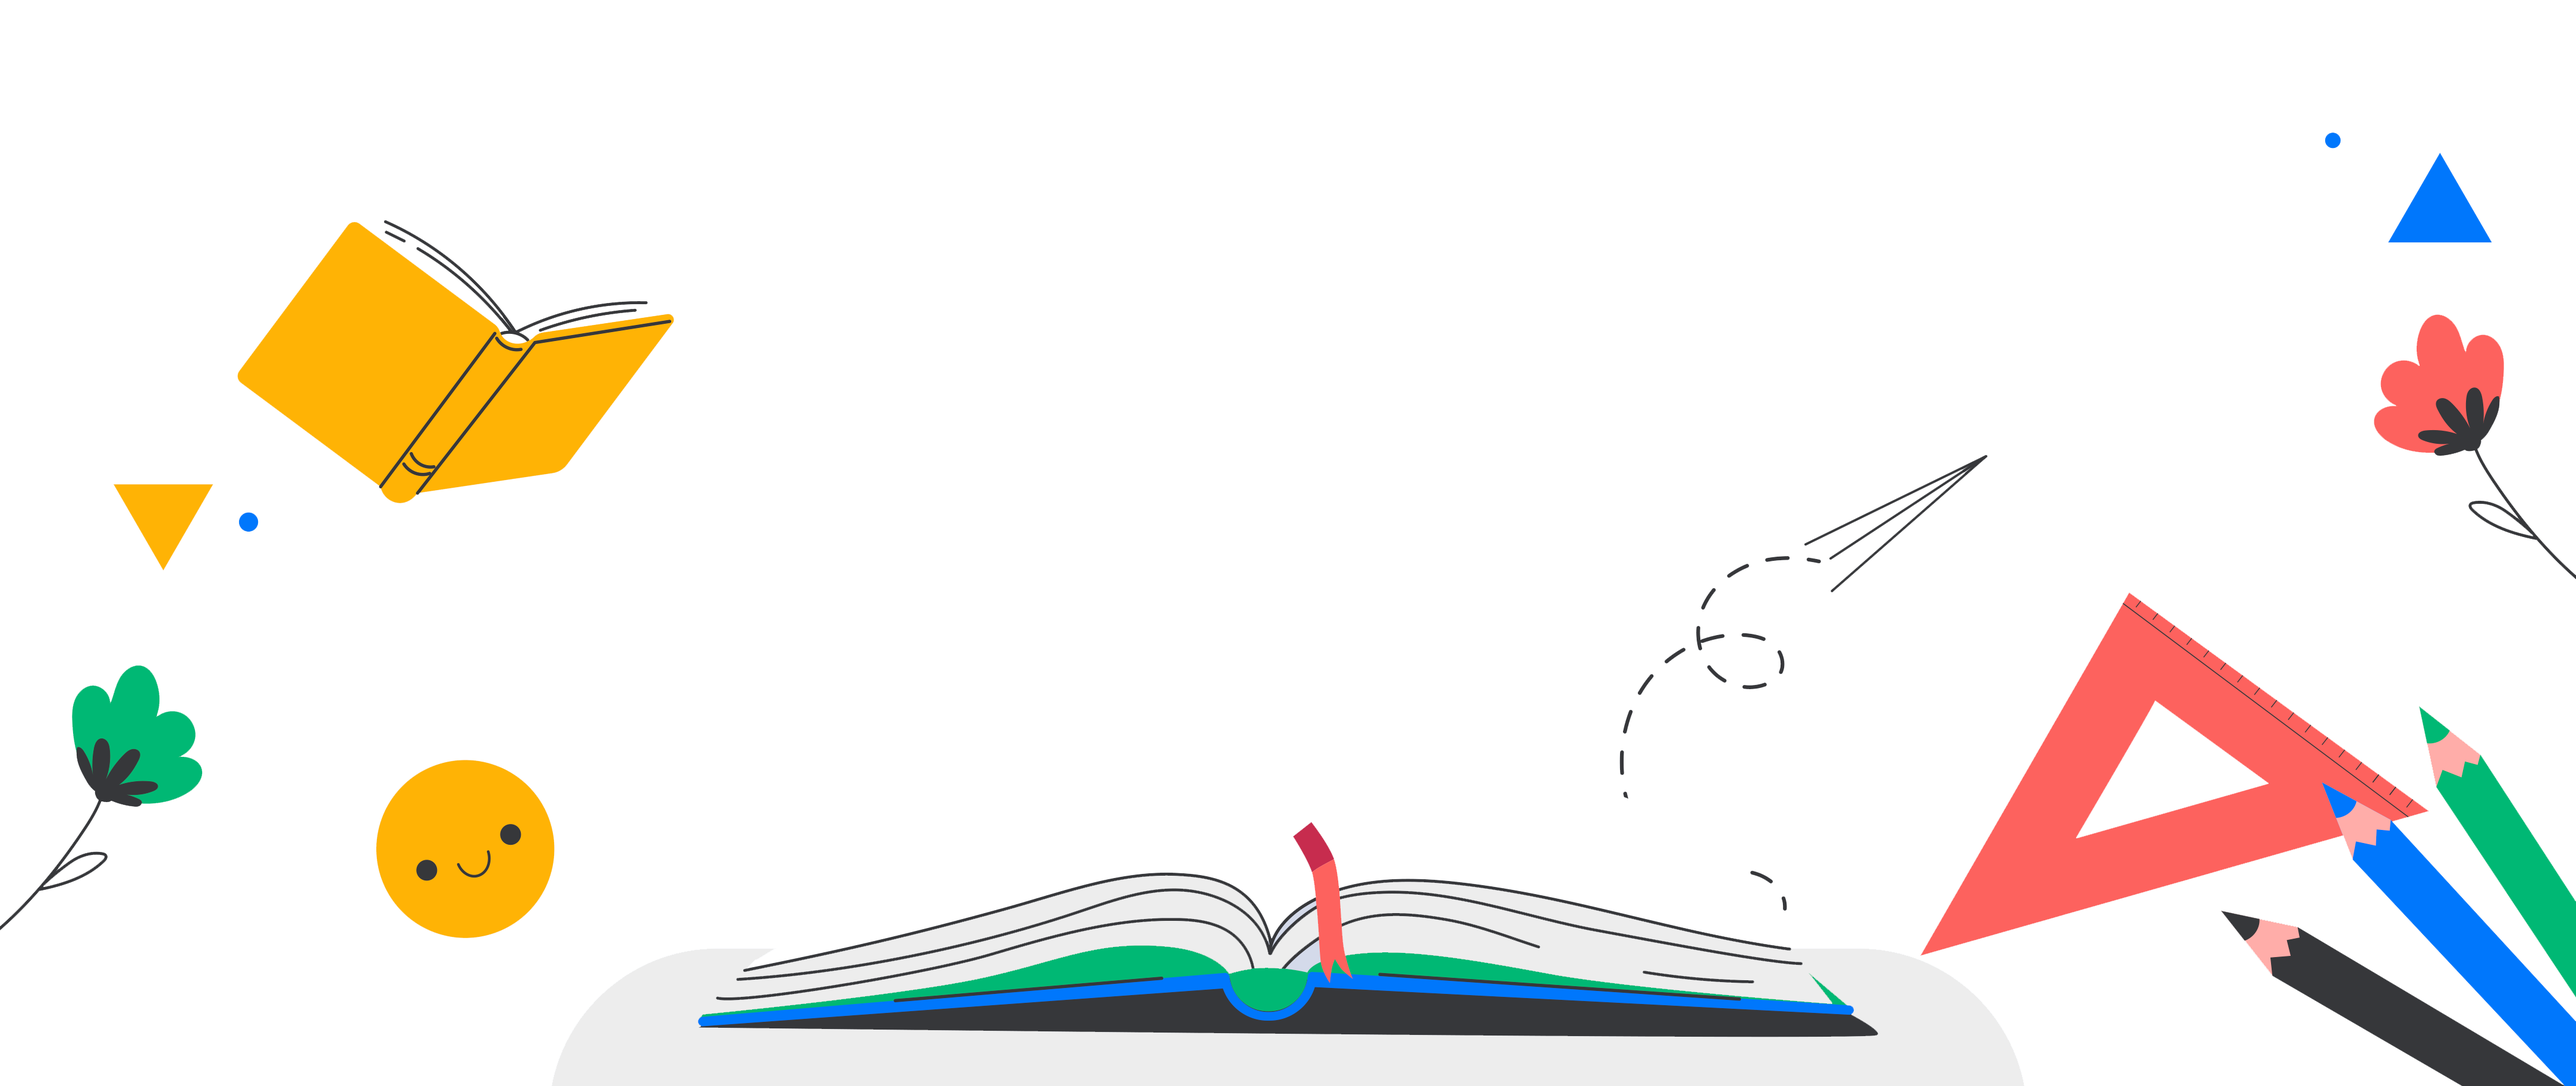
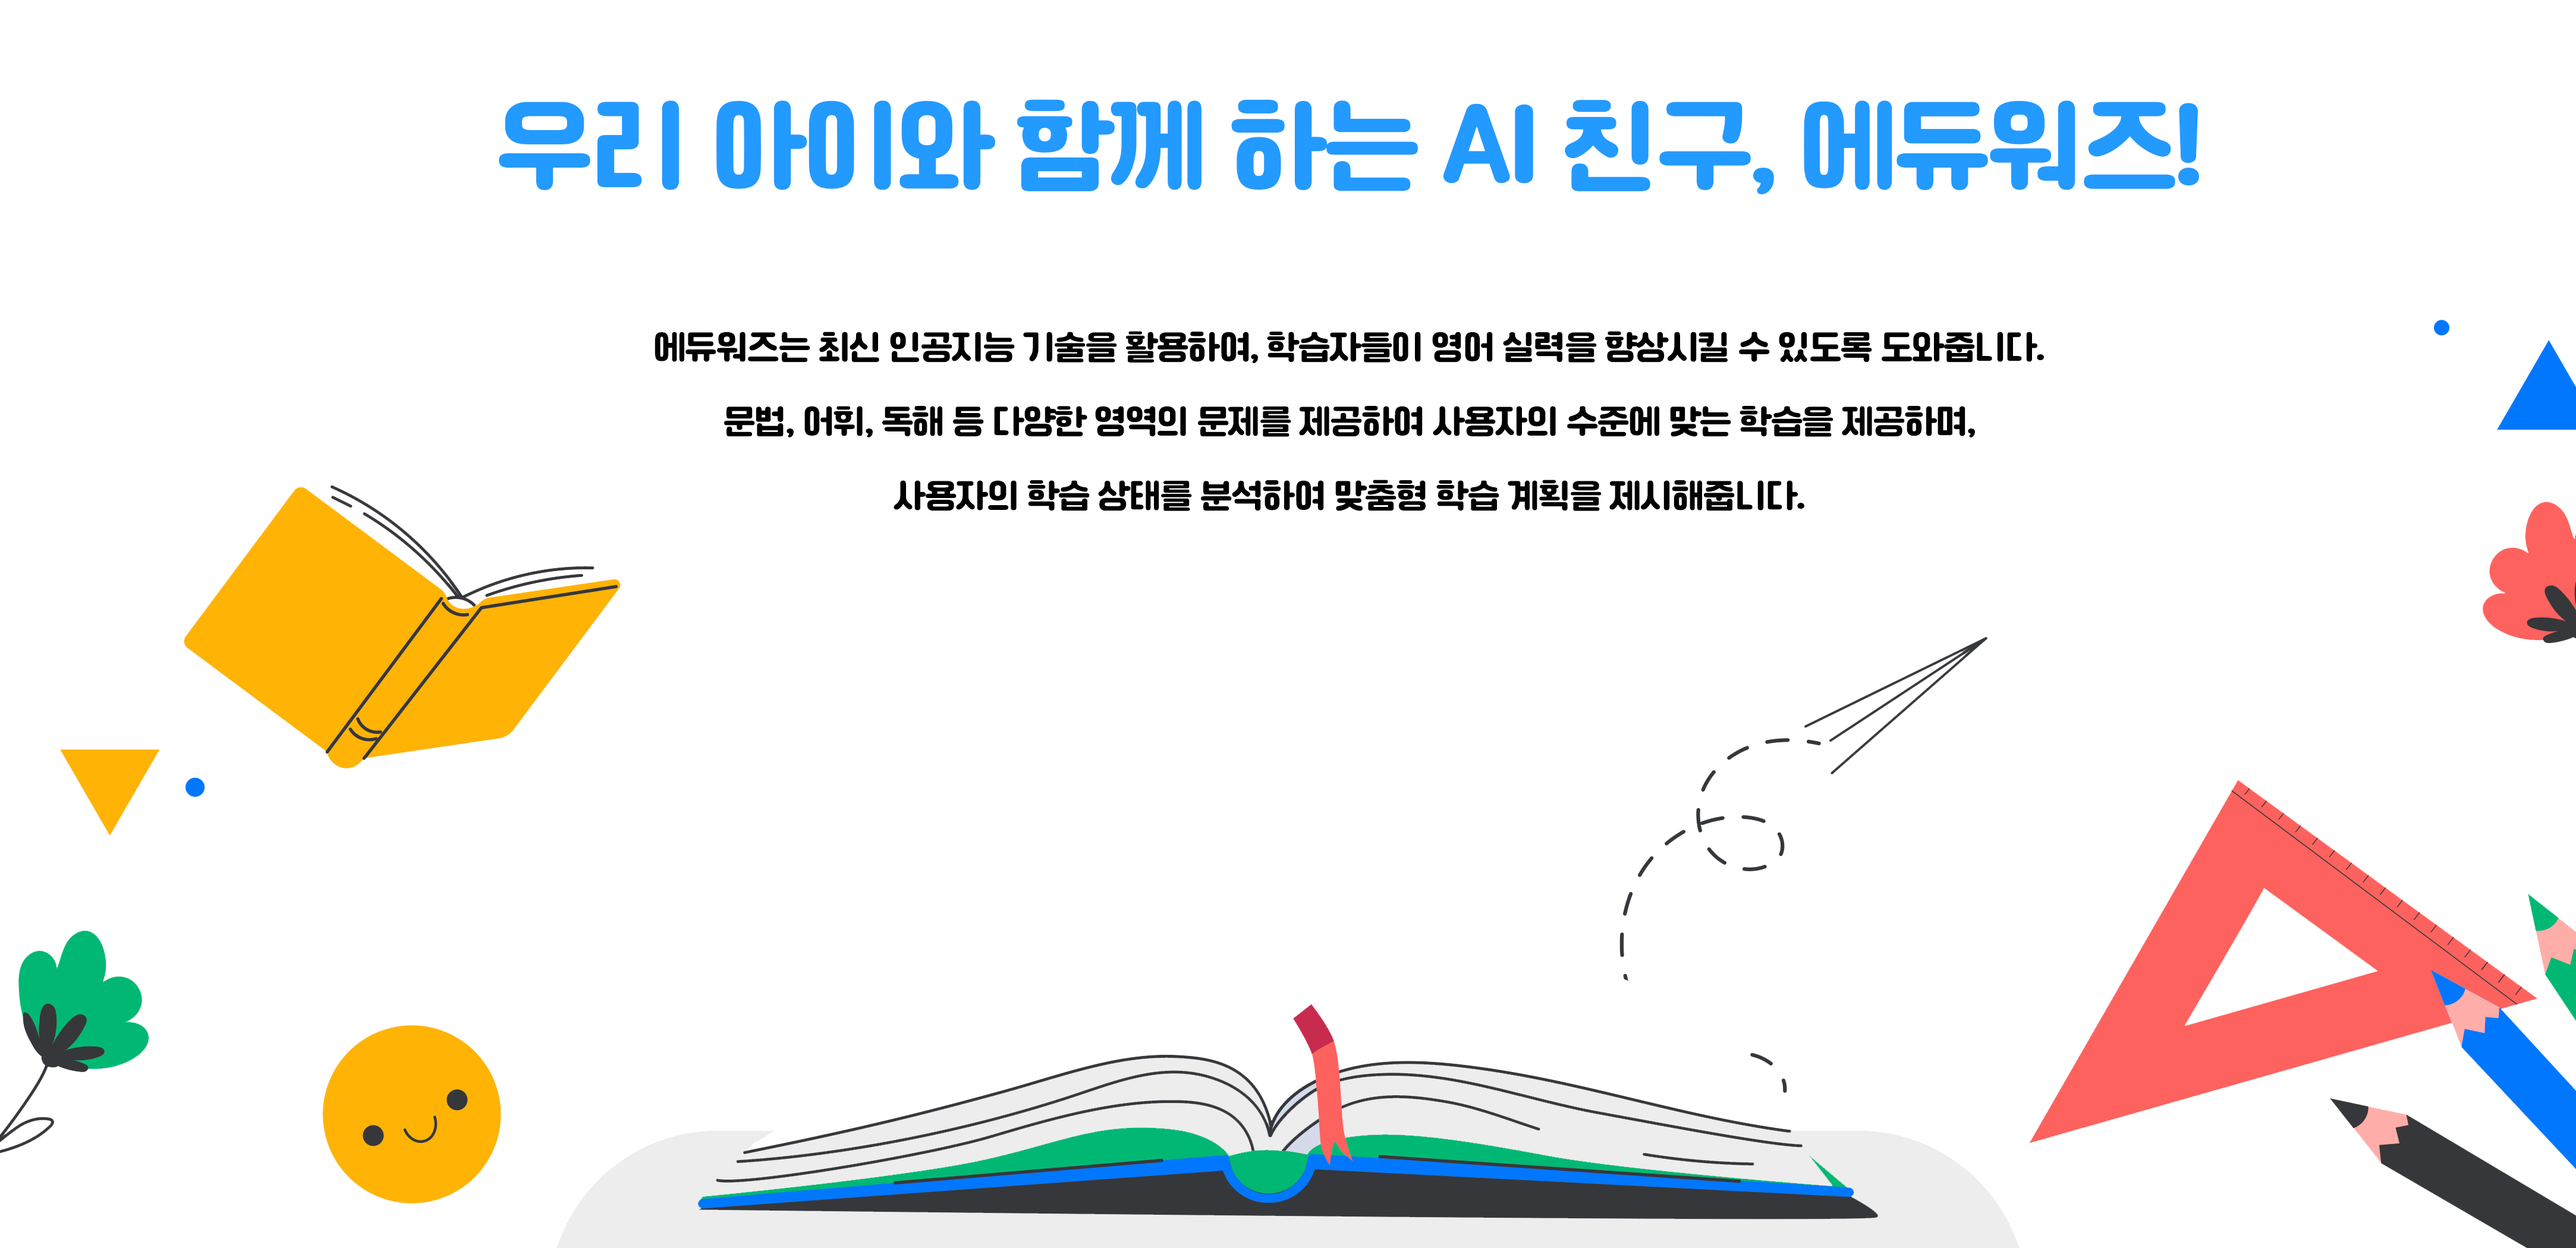
5:34
hn

diff --git a/eduwords/eduwords/src/main.js b/eduwords/eduwords/src/main.js
@@ -38,26 +38,10 @@ function main() {
         <Navbar />
       </header>
       <Banner />
-      <div id="btn">
-        <button id="first">내 학생 관리하기</button>
-        <button id="second">직접 문제 생성하기</button>
-        <button id="third">AI 문제 생성하기</button>
-      </div>
+
       <br />
 
       <main>
-        <section id="text">
-          <h1 class="bold-text">우리 아이와 함께 하는 AI 친구, 에듀워즈!</h1>
-          <p>
-            에듀워즈는 최신 인공지능 기술을 활용하여, 학습자들이 영어 실력을
-            향상시킬 수 있도록 도와줍니다.
-          </p>
-          <p>
-            문법, 어휘, 독해 등 다양한 영역의 문제를 제공하여 사용자의 수준에
-            맞는 학습을 제공하며,
-          </p>
-          <p>사용자의 학습 상태를 분석하여 맞춤형 학습 계획을 제시해줍니다.</p>
-        </section>
         <img src={background} id="back"></img>
       </main>
       <Footer />

diff --git a/eduwords/eduwords/src/main.css b/eduwords/eduwords/src/main.css
@@ -11,7 +11,7 @@ div #bar {
   display: flex;
   align-items: center;
   font-family: "Nanum Gothic Coding";
-  font-size: 20px;
+  font-size: 18px;
   background-color: #239aff;
   color: white;
   padding: 20px;
@@ -29,7 +29,7 @@ div #bar {
 }
 #logo {
   margin-top: 50px;
-  width: 80px;
+  width: 60px;
   height: auto;
   position: absolute;
   left: 10%;
